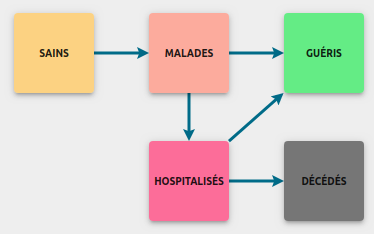
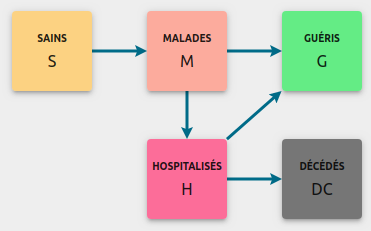
Update Public Homepage

diff --git a/src/screens/public/Home.js b/src/screens/public/Home.js
@@ -1,4 +1,5 @@
 import React from 'react';
+import { format, parseISO } from 'date-fns';
 import { makeStyles, Typography, Button } from '@material-ui/core';
 
 import Layout from '../../components/Layout';
@@ -6,6 +7,8 @@ import diagram from './diagram.png';
 import Acknowledgments from './Acknowledgments';
 import { useHistory } from 'react-router-dom';
 import Alert from '@material-ui/lab/Alert';
+
+const buildDate = process.env.REACT_APP_BUILD_DATE;
 
 const useStyles = makeStyles((theme) => ({
     layout: {
@@ -34,6 +37,21 @@ const useStyles = makeStyles((theme) => ({
             marginBottom: theme.spacing(1),
         },
     },
+    callToAction: {
+        textAlign: 'right',
+        backgroundColor: theme.palette.primary.main,
+        borderRadius: 4,
+        margin: `${theme.spacing(4)}px 0`,
+        color: 'white',
+        padding: theme.spacing(2, 1),
+        display: 'flex',
+        justifyContent: 'flex-end',
+        alignItems: 'center',
+        '& p': {
+            margin: `0 ${theme.spacing(1)}px 0 0`,
+            flex: '0 0 auto',
+        },
+    },
     start: {
         backgroundColor: 'white',
         color: theme.palette.primary.main,
@@ -53,21 +71,14 @@ const Home = () => {
     };
 
     return (
-        <Layout
-            className={classes.layout}
-            actions={
-                <Button
-                    className={classes.start}
-                    variant="contained"
-                    color="inherit"
-                    onClick={start}
-                >
-                    Commencer
-                </Button>
-            }
-        >
+        <Layout className={classes.layout}>
             <div className={classes.container}>
                 <div className={classes.home}>
+                    {buildDate && (
+                        <Typography variant="body2" gutterBottom>
+                            Version du {format(parseISO(buildDate), 'dd/MM/yyyy')}
+                        </Typography>
+                    )}
                     <p>
                         Ce simulateur permet de comprendre comment évolue une épidémie, et en
                         particulier l’épidémie COVID19, et de visualiser les effets des mesures
@@ -93,7 +104,7 @@ const Home = () => {
                             dans le compartiment <strong>G</strong> (Guéris). 2% des sujets infectés
                             vont développer des complications (le plus souvent respiratoires) qui
                             vont nécessiter une hospitalisation. Ils passent donc dans le
-                            compartiment H (Hospitalisés)
+                            compartiment <strong>H</strong> (Hospitalisés)
                         </li>
                         <li>
                             <strong>G&nbsp;:</strong> ensemble des sujets ayant été malades, guéris
@@ -117,9 +128,11 @@ const Home = () => {
                     </div>
                     <p>
                         Le nombre de nouveaux contaminés, et donc la vitesse de propagation de
-                        l’épidémie dépend directement du paramètre R0 (taux de reproduction). On
-                        peut montrer (et la simulation ci-dessous vous le visualisera) que :
+                        l’épidémie dépend directement du paramètre R0 (taux de reproduction). R0
+                        représente en effet le nombre de personnes saines qu’un sujet infecté peut
+                        contaminer.
                     </p>
+                    <p>On peut montrer (et la simulation ci-dessous vous le visualisera) que :</p>
                     <ul className={classes.noliststyle}>
                         <li>Si R0 est inférieur à 1 l’épidémie va s’éteindre spontanément</li>
                         <li>
@@ -151,8 +164,8 @@ const Home = () => {
                         <li>
                             <strong>β</strong> est la probabilité qu’un contact entre un sujet sain
                             et un sujet contaminé provoque la contamination du sujet sain. Par
-                            exemple si β = 0,5 un contact sur 2 est contaminant&nbsp;; si β = 0,01
-                            un contact sur 10 est contaminant. L’objectif des «&nbsp;gestes
+                            exemple si β = 0,5 un contact sur 2 est contaminant&nbsp;; si β = 0,1 un
+                            contact sur 10 est contaminant. L’objectif des «&nbsp;gestes
                             barrières&nbsp;» et des mesures de protection individuelles est de
                             diminuer β
                         </li>
@@ -162,13 +175,26 @@ const Home = () => {
                         de gestes barrières soient efficaces pour maitriser une épidémie il faut
                         qu’elles soient suffisamment rigoureuses et respectées pour que R0 devienne
                         inférieur à 1. C’est toute la difficulté de l’équilibre à trouver entre
-                        maitrise de l’épidémie et contraintes sociales et économiques.
+                        maitrise de l’épidémie, et contraintes sociales et économiques.
                     </p>
                     <p>
                         La simulation ci-dessous vous permettra de simuler les effets des mesures de
                         confinement / déconfinement en fonction de leur date et de leur
                         «&nbsp;rigueur&nbsp;» exprimée par la valeur de R0.
                     </p>
+                    <div className={classes.callToAction}>
+                        <p>Accéder à la simulation</p>
+                        <p>
+                            <Button
+                                className={classes.start}
+                                variant="contained"
+                                color="inherit"
+                                onClick={start}
+                            >
+                                Commencer
+                            </Button>
+                        </p>
+                    </div>
                     <Alert severity="warning" className={classes.warning}>
                         <p>
                             Cette modélisation est à visée exclusivement{' '}
